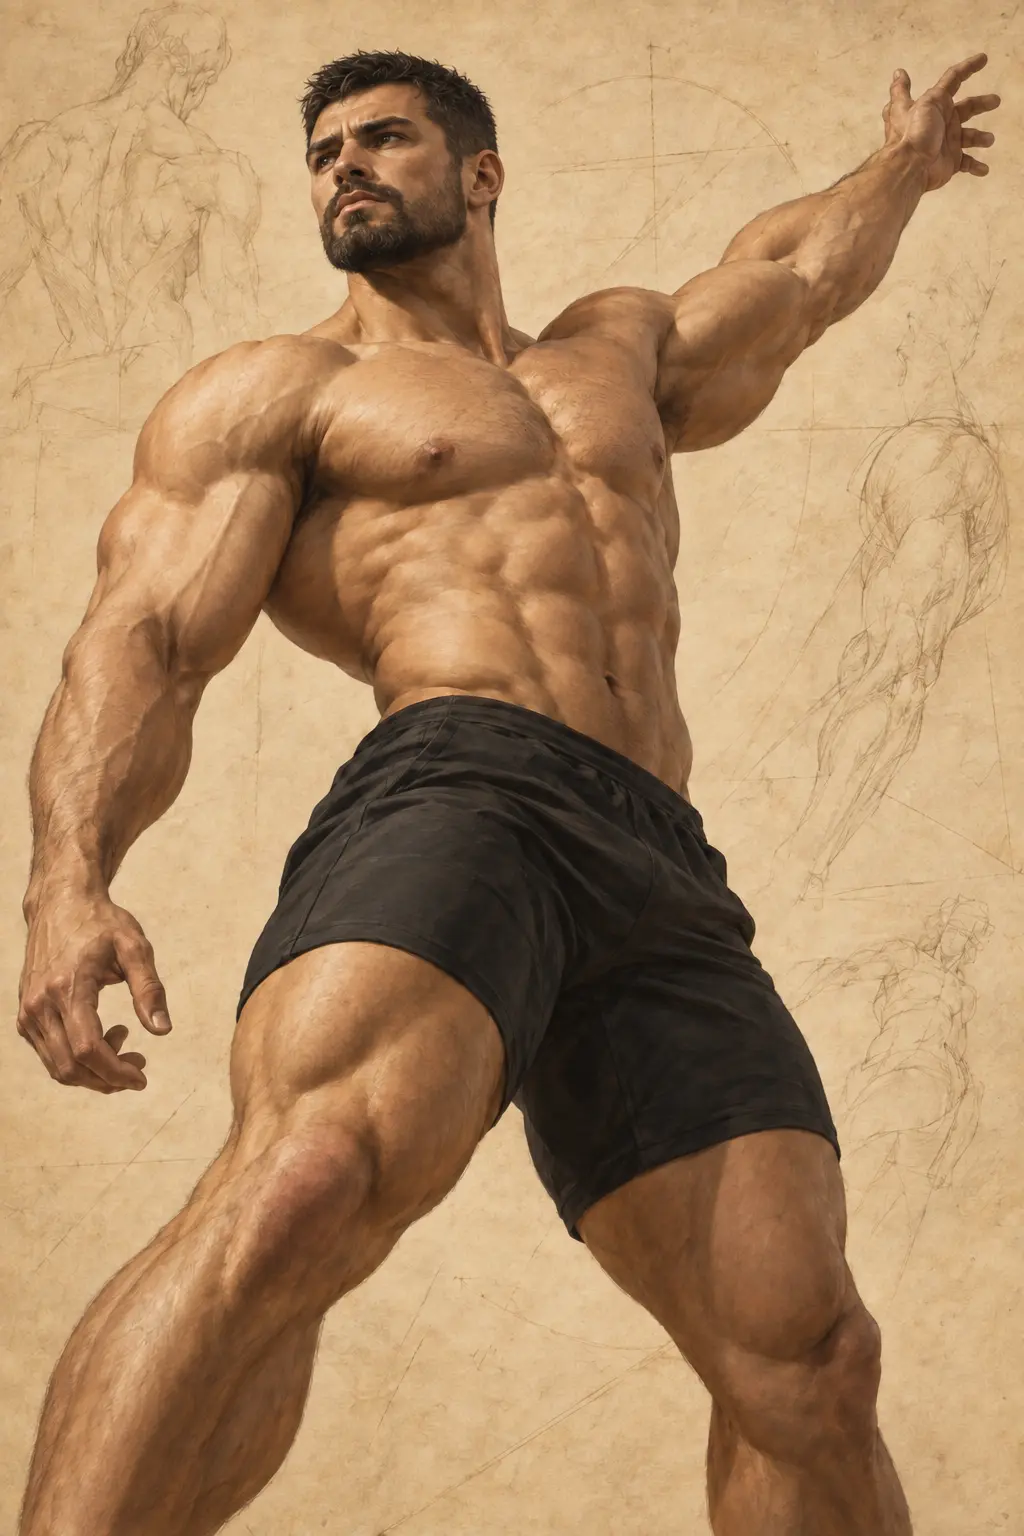
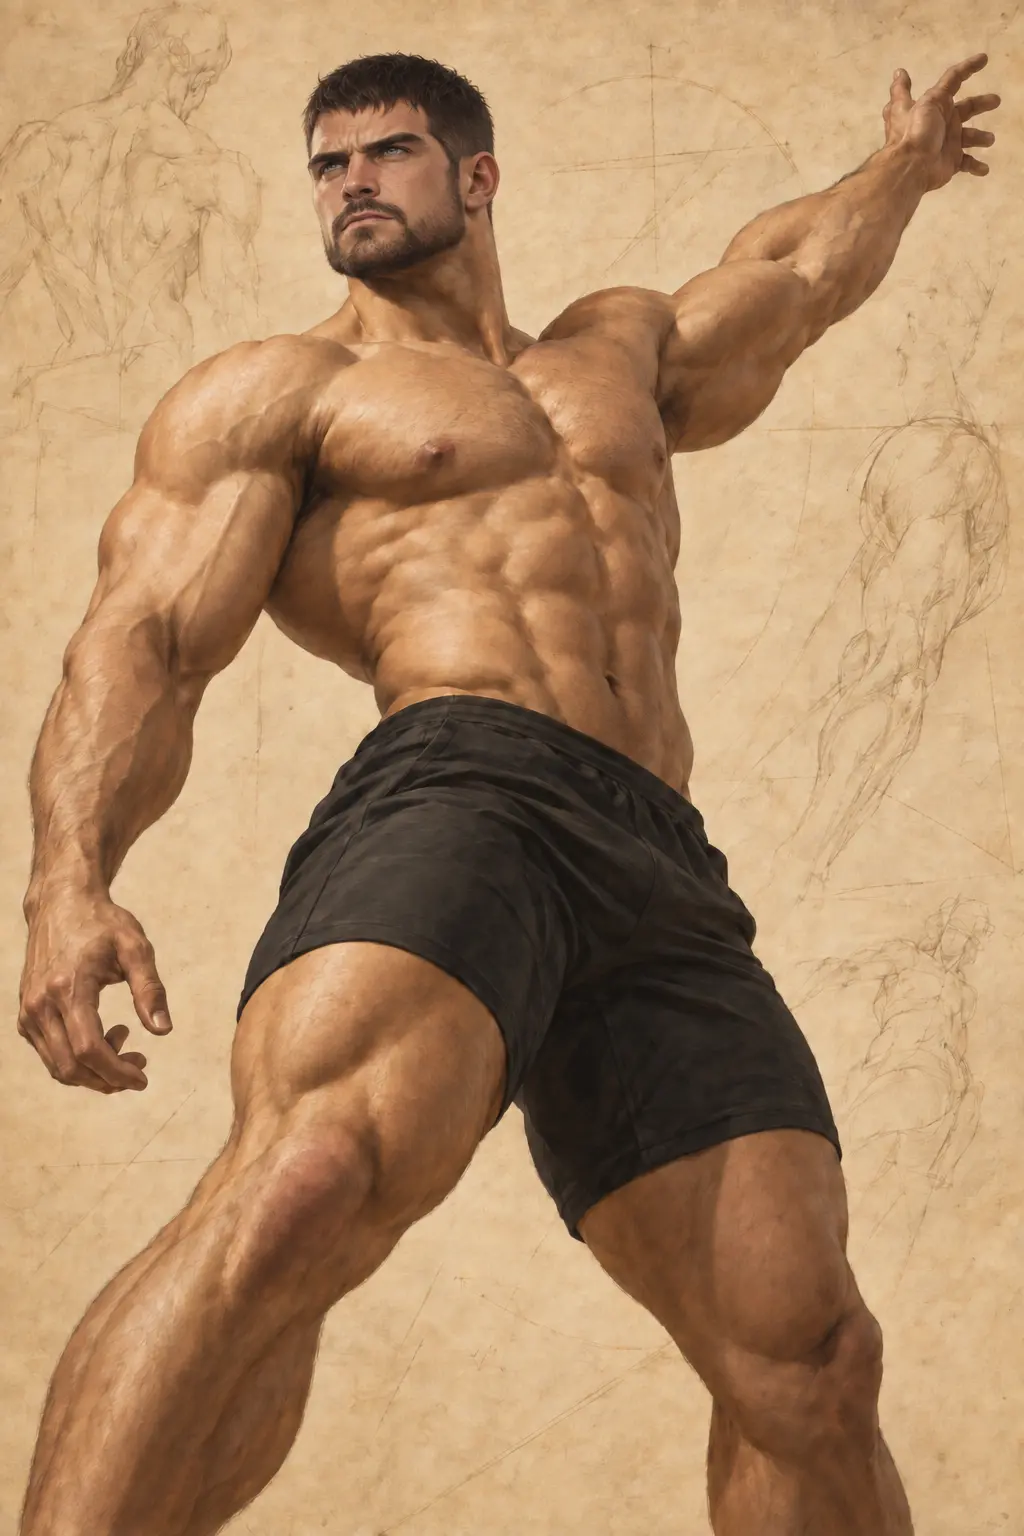
Match hero face to canonical model reference

Changed region(s): [[0.2812, 0.0312, 0.5, 0.1875], [0.2188, 0.625, 0.25, 0.6562]]

diff --git a/service-worker.js b/service-worker.js
@@ -1,4 +1,4 @@
-const CACHE_NAME = 'muscle-codex-shell-v10';
+const CACHE_NAME = 'muscle-codex-shell-v11';
 const APP_FILES = [
   './manifest.webmanifest',
   './icons/favicon-32.png',
